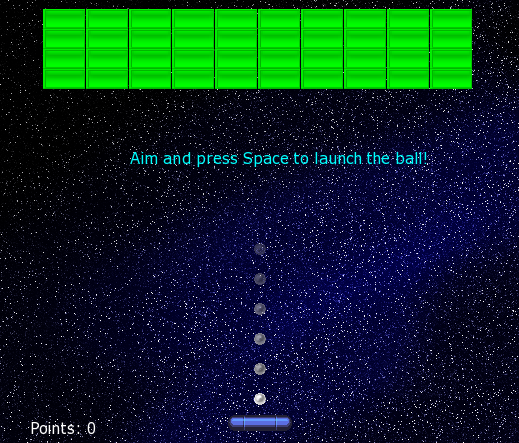
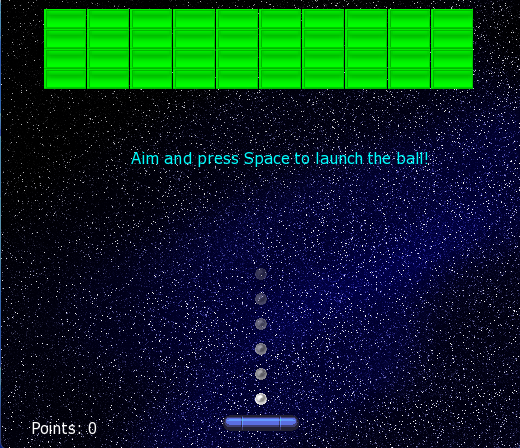
adjusting ball speed; working with pause and reset screen; adjusting bonuses; adjusting paddle size; adding new game_image; code refactoring; bug fixes.

diff --git a/GameSFML/game.cpp b/GameSFML/game.cpp
@@ -53,13 +53,13 @@ game::game() {
 
 	// Configure our text objects
 	text_state.setFont(verdana);
-	text_state.setPosition(constants::window_width / 2.0f - 100.0f, constants::window_height / 2.0f - 100.0f);
+	text_state.setPosition(constants::window_width / 2.0f - 150.0f, constants::window_height / 2.0f - 100.0f);
 	text_state.setCharacterSize(35);
 	text_state.setFillColor(sf::Color::White);
 	text_state.setString("Paused");
 
 	text_lives.setFont(verdana);
-	text_lives.setPosition(constants::window_width / 2.0f - 65.0f, constants::window_height / 2.0f - 50.0f);
+	text_lives.setPosition(constants::window_width / 2.0f - 115.0f, constants::window_height / 2.0f - 50.0f);
 	text_lives.setCharacterSize(35);
 	text_lives.setFillColor(sf::Color::White);
 	text_lives.setString("Lives: " + std::to_string(lives));
@@ -77,10 +77,16 @@ game::game() {
 	text_instructions.setString("Aim and press Space to launch the ball!");
 
 	text_pauseinstructions.setFont(verdana);
-	text_pauseinstructions.setPosition(constants::window_width / 3.5, constants::window_height / 1.4);
+	text_pauseinstructions.setPosition(constants::window_width / 3.5f, constants::window_height / 1.4f);
 	text_pauseinstructions.setCharacterSize(15);
 	text_pauseinstructions.setFillColor(sf::Color::Cyan);
 	text_pauseinstructions.setString("Press P to continue the game!");
+
+	text_pointsstatement.setFont(verdana);
+	text_pointsstatement.setPosition(constants::window_width / 2.0f - 115.0f, constants::window_height / 2.0f);
+	text_pointsstatement.setCharacterSize(35);
+	text_pointsstatement.setFillColor(sf::Color::White);
+	text_pointsstatement.setString("Earned points: " + std::to_string(points));
 }
 
 // (Re)initialize the game
@@ -133,9 +139,7 @@ void game::createAimingItems()
 }
 
 void game::looseLife() {
-	// Spawn a new one and reduce the player's remaining lives
 	gameBall = manager.create<ball>(constants::window_width / 2.0f, constants::window_height - 50.f);
-	// todo: return paddle to the centre! 
 	manager.apply_all<paddle>([this](auto& the_paddle, size_t index) {
 			the_paddle.getSprite()->setPosition(constants::window_width / 2.0f - constants::paddle_width / 2.f, constants::window_height - constants::paddle_heigh);
 		});
@@ -143,6 +147,15 @@ void game::looseLife() {
 	--lives;
 
 	state = game_state::paused;
+}
+
+void game::setAndDrawResetWindow() {
+	text_pointsstatement.setString("Earned points: " + std::to_string(points));
+	text_pauseinstructions.setString("Press R to reset the game!");
+	game_window.draw(text_state);
+	game_window.draw(text_lives);
+	game_window.draw(text_pauseinstructions);
+	game_window.draw(text_pointsstatement);
 }
 
 // (Re)start the game
@@ -172,7 +185,7 @@ void game::run() {
 
 		// If the user presses "P", we pause/unpause the game
 		// To prevent repeated use, we ignore it if it was pressed on the last iteration
-		if (sf::Keyboard::isKeyPressed(sf::Keyboard::Key::P)) {
+		if (sf::Keyboard::isKeyPressed(sf::Keyboard::Key::P) && state != game_state::game_over && state != game_state::player_wins) {
 			// If it was not pressed on the last iteration, toggle the status
 			if (!pause_key_active) {
 				if (state == game_state::paused)
@@ -190,30 +203,27 @@ void game::run() {
 			reset();
 		}
 
-		/*if (state == game_state::paused)
-		{
-			manager.draw(game_window);
-		}*/
-
 		if (state != game_state::running)
 		{
 			switch (state) {
 			case game_state::paused:
 				text_state.setString("   Paused   ");
+				text_pauseinstructions.setString("Press P to continue the game!");
+				game_window.draw(text_state);
+				game_window.draw(text_lives);
+				game_window.draw(text_pauseinstructions);
 				break;
 			case game_state::game_over:
 				text_state.setString("   Game over!   ");
+				setAndDrawResetWindow();
 				break;
 			case game_state::player_wins:
-				text_state.setString("   You won nothing!   ");
+				text_state.setString("   You won!   ");
+				setAndDrawResetWindow();
 				break;
 			default:
 				break;
 			}
-
-			game_window.draw(text_state);
-			game_window.draw(text_lives);
-			game_window.draw(text_pauseinstructions);
 		}
 		else {
 			// If there are no remaining balls on the screen

diff --git a/GameSFML/paddle.cpp b/GameSFML/paddle.cpp
@@ -10,8 +10,8 @@ paddle::paddle(float x, float y) : moving_entity() {
     xA = x;
     yA = y;
 
-    // Set the initial position and velocity of the ball
-    // Use (x, y) for the initial position of the ball
+    sprite.setScale(1.2f, 1.f);
+
     sprite.setPosition(xA, yA);
     /*velocity = { constants::ball_speed, constants::ball_speed };*/
 }
@@ -24,7 +24,7 @@ void paddle::update() {
     }
     else if (sf::Keyboard::isKeyPressed(sf::Keyboard::Scan::Right))
     {
-        velocity = x() <= constants::window_width - 70.f ? sf::Vector2f(6.f, 0.f) : sf::Vector2f(0.f, 0.f);
+        velocity = x() <= constants::window_width - constants::paddle_width ? sf::Vector2f(6.f, 0.f) : sf::Vector2f(0.f, 0.f);
     }
     else
     {

diff --git a/GameSFML/constants.h b/GameSFML/constants.h
@@ -9,9 +9,9 @@ struct constants {
 	static constexpr int aim_items_count{ 5 };
 	static constexpr int ball_maxX_velocity{ 8 };
 	static constexpr float aim_offset{ 5.f };
-	static constexpr float ball_speed{ 6.0f };
+	static constexpr float ball_speed{ 5.f };
 	static constexpr float bonus_speed{ 4.0f };
-	static constexpr float paddle_width{ 70.f };
+	static constexpr float paddle_width{ 84.f };
 	static constexpr float paddle_heigh{ 40.f };
 	static constexpr float brick_width{ 43.f };
 	static constexpr float brick_height{ 20.f };

diff --git a/GameSFML/game.h b/GameSFML/game.h
@@ -119,7 +119,7 @@ class game {
 	entity_manager manager;
 
 	sf::Font verdana;
-	sf::Text text_state, text_lives, text_points, text_instructions, text_pauseinstructions;
+	sf::Text text_state, text_lives, text_points, text_instructions, text_pauseinstructions, text_pointsstatement;
 
 	// Member to store the current state of the game
 	game_state state{ game_state::running };
@@ -150,6 +150,8 @@ public:
 	void run();
 
 	void looseLife();
+
+	void setAndDrawResetWindow();
 };
 
 #endif // GAME_H

diff --git a/GameSFML/bonus.cpp b/GameSFML/bonus.cpp
@@ -13,6 +13,7 @@ bonus::bonus(float x, float y) : moving_entity() {
     // Use (x, y) for the initial position of the ball
     sprite.setPosition(x, y);
     sprite.setColor(lightGreen);
+    sprite.setScale(0.8f, 0.8f);
     velocity = { 0.f , constants::bonus_speed };
 
     sprite.setOrigin(get_centre());
